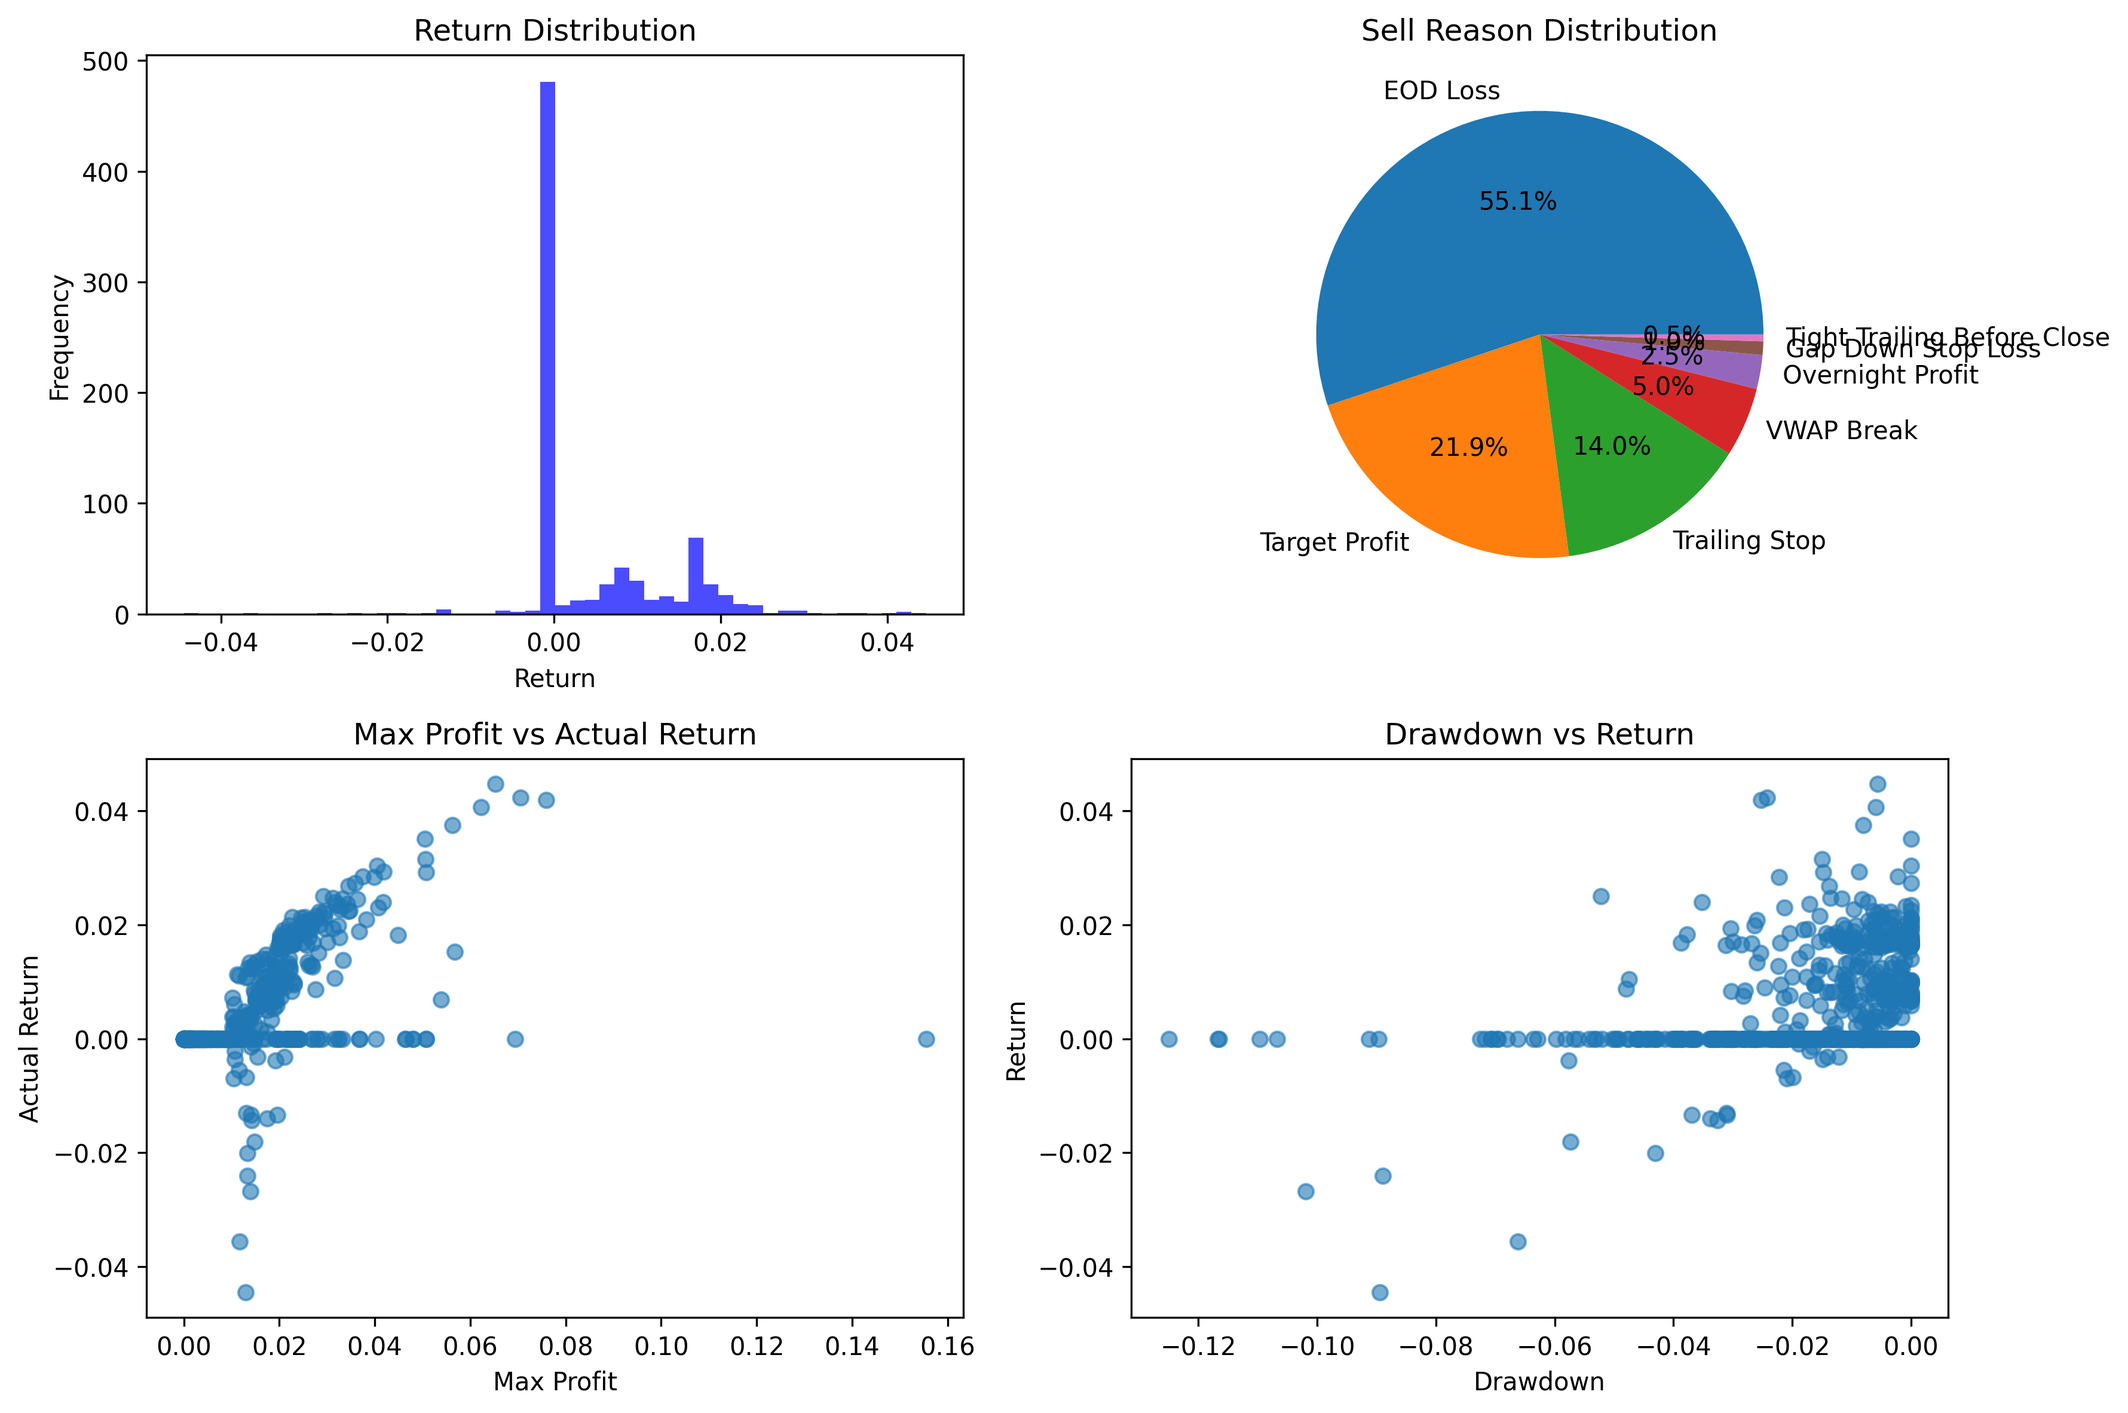
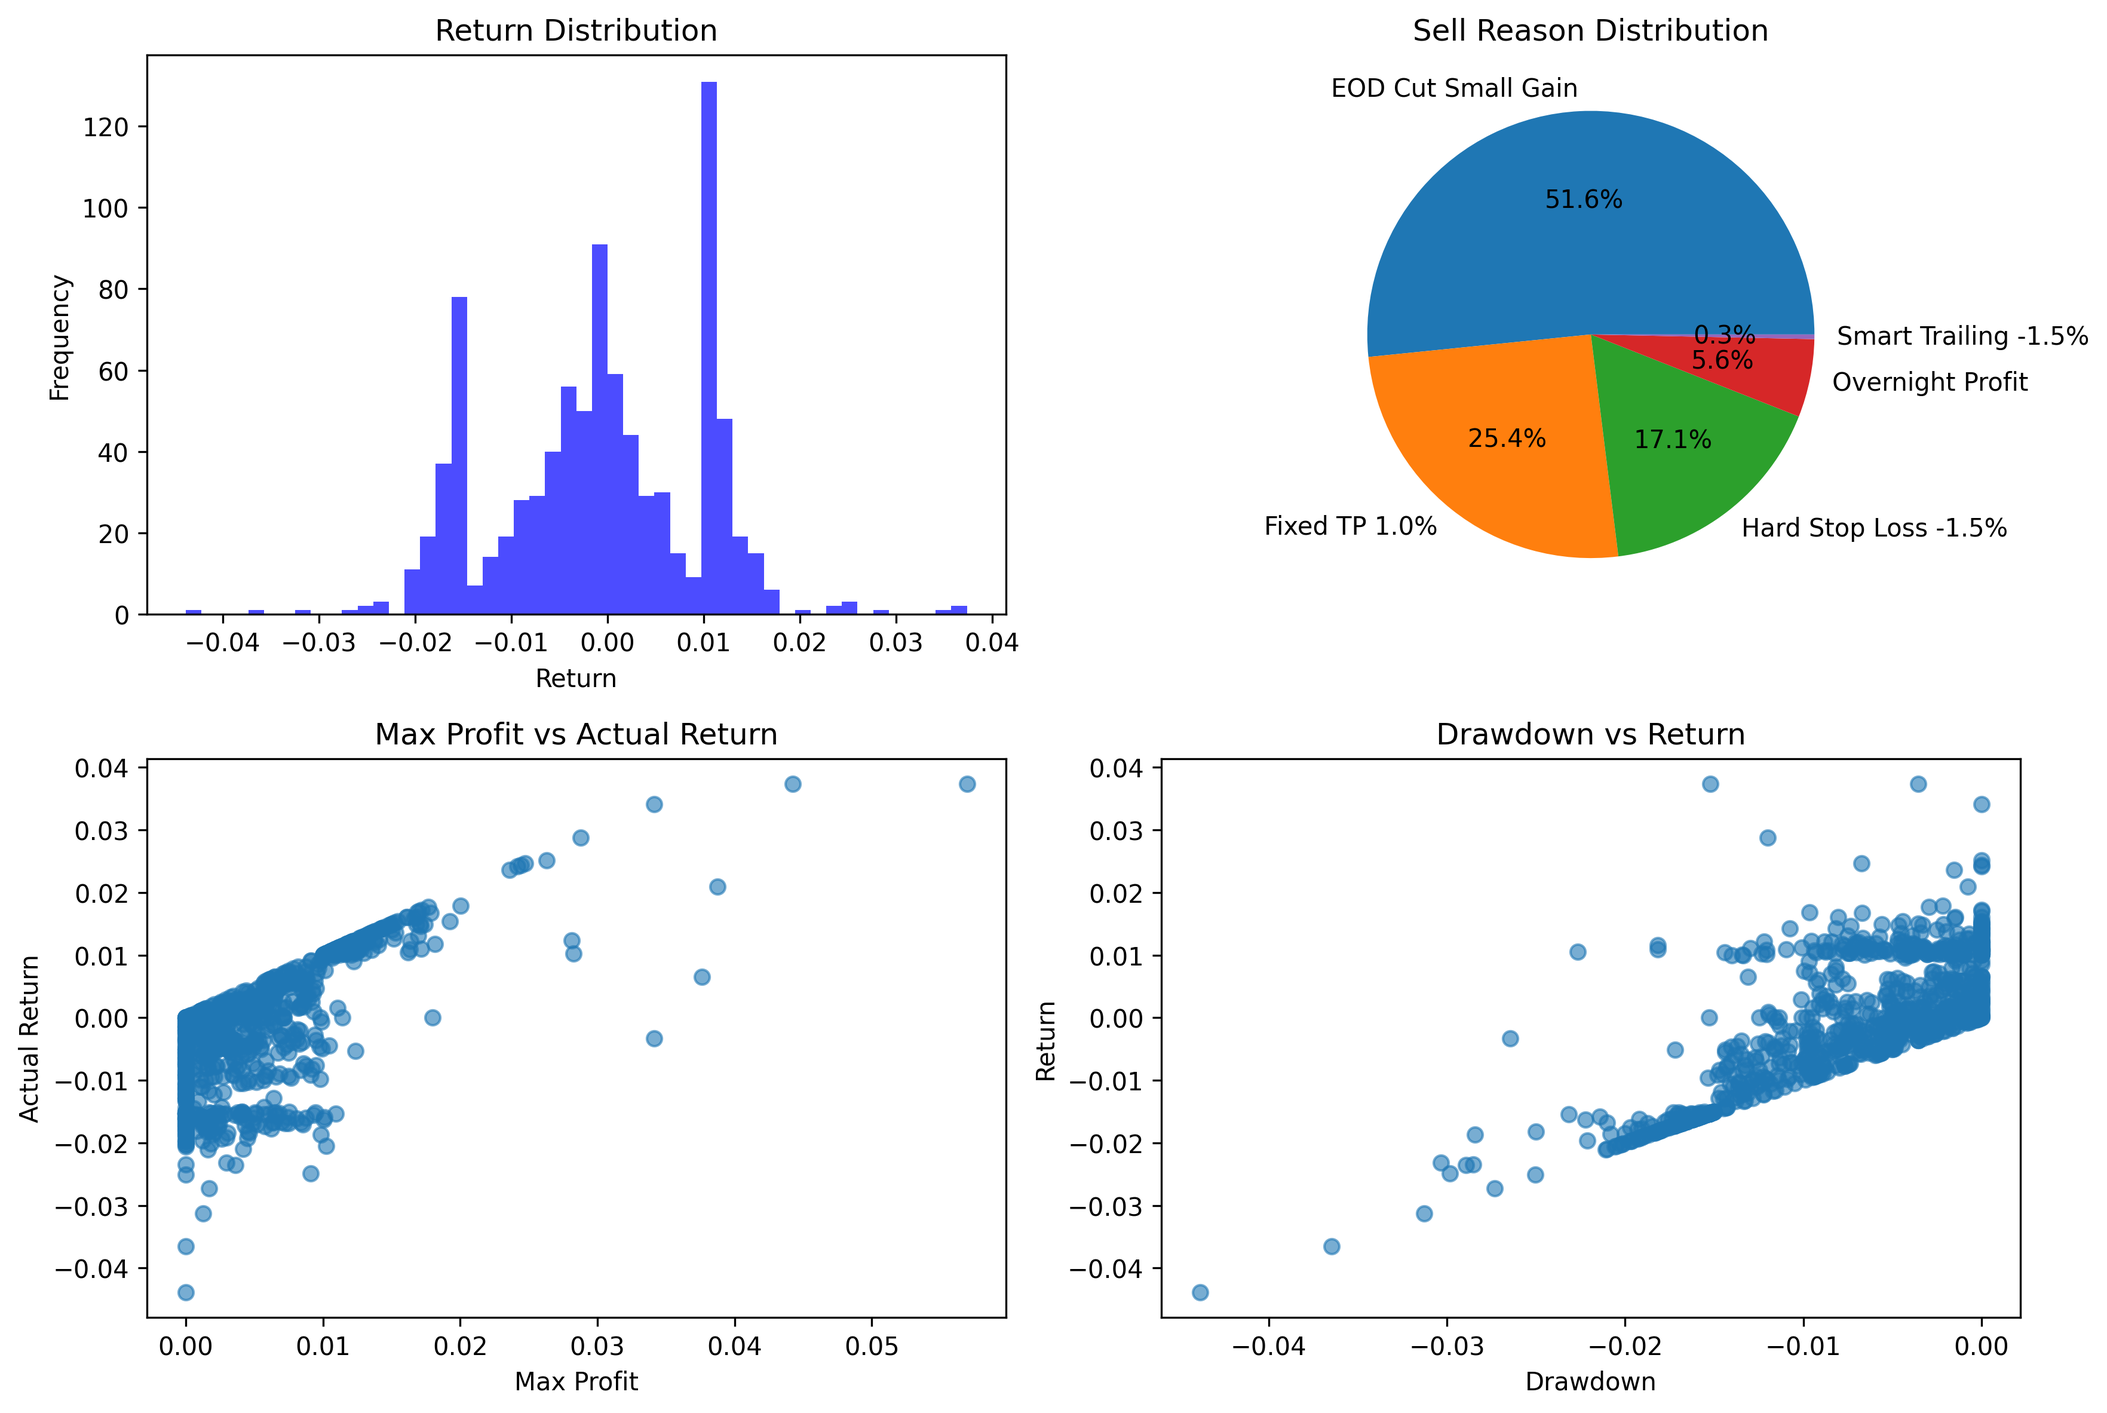
Backtest update

diff --git a/backtest_gradual_riser_trailing.py b/backtest_gradual_riser_trailing.py
@@ -10,6 +10,15 @@ results = []
 total_files = len(minute_files)
 processed_files = 0
 condition_counts = {'new_high': 0, 'vol_spike': 0, 'vwap_ok': 0, 'rsi_ok': 0, 'all_conditions': 0}
+tp_analysis = {
+    'total_trades': 0,
+    'tp_0.5_reached': 0,
+    'tp_1.0_reached': 0,
+    'tp_1.5_reached': 0,
+    'tp_2.0_reached': 0,
+    'tp_2.5_reached': 0,
+    'max_profit_distribution': []
+}
 
 print(f"Total files to process: {total_files}")
 
@@ -50,19 +59,17 @@ for file in tqdm(minute_files, desc="Processing files"):
         if entry_window.empty:
             continue
 
-        # 진입 조건별 카운트 (조건 강화)
+        # 진입 조건별 카운트 (조건 강화 → 점진 상승 패턴으로 수정)
         for idx, row in entry_window.iterrows():
-            # 30고가로 강화
             lookback = min(30, idx)
             high_30 = df.loc[idx-lookback:idx-1, 'high'].max() if idx > 0 else 0
+            # 점진 상승: 3분 이상 우상향
+            price_rise = df['close'].iloc[idx] > df['close'].iloc[idx - 3] if idx >= 3 else False
+            vwap_ok = row['close'] > row['vwap']
+            rsi_ok = row['rsi'] > 60
+            vol_spike = row['volume'] > 1.5 * row['vol_ma5']
             is_break_high = row['high'] > high_30 if high_30 > 0 else False
-            
-            vol_spike = row['volume'] > 2 * row['vol_ma5']
-            # VWAP 대비 0.3% 이상 상회로 변경
-            vwap_ok = row['close'] > row['vwap'] * 1.03
-            # RSI 범위 63-68 좁히기
-            rsi_ok = 63 <= row['rsi'] <= 68
-            
+            # 기존 카운트 유지 (원하면 수정 가능)
             if is_break_high:
                 condition_counts['new_high'] += 1
             if vol_spike:
@@ -71,35 +78,31 @@ for file in tqdm(minute_files, desc="Processing files"):
                 condition_counts['vwap_ok'] += 1
             if rsi_ok:
                 condition_counts['rsi_ok'] += 1
-            # 조건 조합: 핵심2개(고점돌파 또는 거래량급증) + 보조 2개(RSI적정)
-            if (is_break_high or vol_spike) and vwap_ok and rsi_ok:
+            # 조건 조합: 급등 배제, 점진 상승 강화
+            if price_rise and (is_break_high or vol_spike) and vwap_ok and rsi_ok:
                 condition_counts['all_conditions'] += 1
                 buy_time = row['datetime']
                 buy_price = row['close']
                 buy_idx = idx
-                # 10~11 등
                 ten = df[(df['datetime'].dt.time >= pd.to_datetime('10:00').time()) &
                          (df['datetime'].dt.time < pd.to_datetime('11:00').time())]
                 high_10_11 = ten['high'].max()
                 close_10_11 = ten['close'].iloc[-1]
                 close_pos_10_11 = close_10_11 / high_10_11 if high_10_11 > 0 else np.nan
-                # 10:10~10:30 매수강도 proxy
                 buy_strength = df[(df['datetime'].dt.time >= pd.to_datetime('10:10').time()) &
                                   (df['datetime'].dt.time <= pd.to_datetime('10:30').time())]['volume'].sum()
-                # ▼▼▼ 기본 청산 로직 (안정적 버전) ▼▼▼
+
+                # ▼▼▼ 기본 청산 로직 (TP/Trailing 완화) ▼▼▼
                 sell_price = np.nan
                 sell_time = None
-                sell_reason = ''
+                sell_reason = None
                 max_price = buy_price
                 min_price = buy_price
                 trailing_active = False
                 peak_price = buy_price
-                position = 1.0  # 1=전량, 0.5=부분청산 후
-                partial_sell = False
-                partial_sell_price = np.nan
-                partial_sell_time = None
-                partial_sell_reason = ''
-                
+                position = 1.0
+                max_profit_reached = 0.0
+
                 sell_window = df[df.index > buy_idx]
                 for _, srow in sell_window.iterrows():
                     price = srow['close']
@@ -107,96 +110,69 @@ for file in tqdm(minute_files, desc="Processing files"):
                     low = srow['low']
                     max_price = max(max_price, high)
                     min_price = min(min_price, low)
-                    ret_now = (price - buy_price) / buy_price
-                    
-                    # VWAP 이탈 손절: 봉 종가 기준으로 변경 (false break 대응)
-                    if price < srow['vwap'] * 0.997:
+                    current_return = (price - buy_price) / buy_price
+                    max_profit = (max_price - buy_price) / buy_price
+                    # max_profit_reached를 루프 내에서 지속 갱신
+                    max_profit_reached = max(max_profit_reached, max_profit)
+
+                    # Smart Trailing Stop 활성화 조건 (완화)
+                    smart_trailing_active = max_profit > 0.015
+                    trailing_threshold = max_price * 0.985  # 고점 대비 -1.5%
+
+                    # 1. 고정 목표 수익 (1.0%로 하향)
+                    if current_return >= 0.01:
+                        sell_reason = "Fixed TP 1.0%"
                         sell_price = price
                         sell_time = srow['datetime']
-                        sell_reason = 'VWAP Break'
-                        position = 0.0
                         break
-                    
-                    # Target Profit(2%) 익절로 조정 (close 기준)
-                    elif (price - buy_price) / buy_price >= 0.02:
+
+                    # 2. Smart Trailing Stop (조건부)
+                    elif smart_trailing_active and price < trailing_threshold:
+                        sell_reason = "Smart Trailing -1.5%"
                         sell_price = price
                         sell_time = srow['datetime']
-                        sell_reason = 'Target Profit'
-                        position = 0.0
                         break
-                    
-                    # 부분청산: 1 도달 시 40% 청산 (비중 확대)
-                    elif not partial_sell and (price - buy_price) / buy_price >= 0.01:
-                        partial_sell = True
-                        partial_sell_price = price
-                        partial_sell_time = srow['datetime']
-                        partial_sell_reason = 'Partial Profit 1%'
-                        position = 0.6  # 40% 청산 후 60% 보유
-                        # 나머지 60%는 계속 보유
-                    
-                    # 복합 익절: RSI > 70 and return > 0.8% (조건 완화)
-                    if not trailing_active and srow['rsi'] > 70 and ret_now > 0.008:
-                        trailing_active = True
-                        peak_price = high
-                        continue
-                    
-                    # 트레일링 스탑: 최고가 대비 -1% 하락, 단 최소 수익률 1.5% 이상 (조건 완화)
-                    if trailing_active:
-                        if high > peak_price:
-                            peak_price = high
-                        if (peak_price - buy_price) / buy_price >= 0.015:
-                            if price <= peak_price * 0.99:
-                                sell_price = price
-                                sell_time = srow['datetime']
-                                sell_reason = 'Trailing Stop'
-                                position = 0.0
-                                break
-                    
-                    # 🔹 1단계: 조건부 EOD 청산 (손실 중인 포지션만 마감)
-                    if srow['datetime'].time() >= pd.to_datetime('15:00').time():
-                        if ret_now < 0:
+
+                    # 3. Hard Stop Loss
+                    elif current_return <= -0.015:
+                        sell_reason = "Hard Stop Loss -1.5%"
+                        sell_price = price
+                        sell_time = srow['datetime']
+                        break
+
+                    # 4. EOD (익일 청산 조건 보완)
+                    elif srow['datetime'].time() > pd.to_datetime('15:00').time():
+                        if current_return < 0.005:
+                            sell_reason = "EOD Cut Small Gain"
                             sell_price = price
                             sell_time = srow['datetime']
-                            sell_reason = 'EOD Loss'
-                            position = 0.0
                             break
                         else:
-                            # 수익 중이면 오버나잇 보유
-                            continue
-                    
-                    # 🔹 2단계: 마감 30분 전 타이트 트레일링 스탑 (14:30~15:00)
-                    if srow['datetime'].time() >= pd.to_datetime('14:30').time():
-                        if ret_now > 0.005:  # 0.5% 이상 수익 중일 때만
-                            if price < peak_price * 0.992:  # 고점 대비 0.8% 이탈
-                                sell_price = price
-                                sell_time = srow['datetime']
-                                sell_reason = 'Tight Trailing Before Close'
-                                position = 0.0
-                                break
-                    
-                    # 🔹 3단계: 익일 자동 청산 로직 (09:10 체크)
-                    if srow['datetime'].time() == pd.to_datetime('09:10').time():
-                        if ret_now > 0.01:  # 1% 이상 수익 중이면 익일 청산
-                            sell_price = price
+                            sell_reason = "Overnight Profit"
+                            sell_price = price  # 임시로 현재가 사용
                             sell_time = srow['datetime']
-                            sell_reason = 'Overnight Profit'
-                            position = 0.0
                             break
-                        elif drawdown < -0.03:  # 3% 이상 손실 시 갭다운 손절
-                            sell_price = price
-                            sell_time = srow['datetime']
-                            sell_reason = 'Gap Down Stop Loss'
-                            position = 0.0
-                            break
-                
+
+                # TP 도달률 분석 기록 (실제 청산된 거래만, 1.0% 기준으로 수정)
+                if not np.isnan(sell_price):
+                    tp_analysis['total_trades'] += 1
+                    tp_analysis['max_profit_distribution'].append(max_profit_reached)
+                    if max_profit_reached >= 0.005:
+                        tp_analysis['tp_0.5_reached'] += 1
+                    if max_profit_reached >= 0.01:
+                        tp_analysis['tp_1.0_reached'] += 1
+                    if max_profit_reached >= 0.015:
+                        tp_analysis['tp_1.5_reached'] += 1
+                    if max_profit_reached >= 0.02:
+                        tp_analysis['tp_2.0_reached'] += 1
+                    if max_profit_reached >= 0.025:
+                        tp_analysis['tp_2.5_reached'] += 1
+
                 # 결과 기록
                 if not np.isnan(sell_price):
-                    ret = (sell_price - buy_price) / buy_price * position
                     max_profit = (max_price - buy_price) / buy_price
                     drawdown = (min_price - buy_price) / buy_price
-                    # 부분청산 수익 포함
-                    if partial_sell:
-                        ret = 0.4 * ((partial_sell_price - buy_price) / buy_price) + 0.6 * ((sell_price - buy_price) / buy_price)
+                    ret = (sell_price - buy_price) / buy_price
                     results.append({
                         'stock': stock_code,
                         'buy_time': buy_time,
@@ -205,10 +181,6 @@ for file in tqdm(minute_files, desc="Processing files"):
                         'sell_price': sell_price,
                         'return': ret,
                         'sell_reason': sell_reason,
-                        'partial_sell': partial_sell,
-                        'partial_sell_price': partial_sell_price,
-                        'partial_sell_time': partial_sell_time,
-                        'partial_sell_reason': partial_sell_reason,
                         'close_pos_10_11': close_pos_10_11,
                         'buy_strength': buy_strength,
                         'rsi_at_buy': row['rsi'],
@@ -227,6 +199,27 @@ print(f"Processed files: {processed_files}")
 print(f"Condition counts:")
 for condition, count in condition_counts.items():
     print(f"  {condition}: {count}")
+
+# TP 도달률 분석 출력
+print(f"\n=== Target Profit 도달률 분석 ===")
+total_trades = tp_analysis['total_trades']
+if total_trades > 0:
+    print(f"총 거래 수: {total_trades}")
+    print(f"0.5% 도달률: {tp_analysis['tp_0.5_reached']} ({tp_analysis['tp_0.5_reached']/total_trades*100:.1f}%)")
+    print(f"1.0% 도달률: {tp_analysis['tp_1.0_reached']} ({tp_analysis['tp_1.0_reached']/total_trades*100:.1f}%)")
+    print(f"1.5% 도달률: {tp_analysis['tp_1.5_reached']} ({tp_analysis['tp_1.5_reached']/total_trades*100:.1f}%)")
+    print(f"2.0% 도달률: {tp_analysis['tp_2.0_reached']} ({tp_analysis['tp_2.0_reached']/total_trades*100:.1f}%)")
+    print(f"2.5% 도달률: {tp_analysis['tp_2.5_reached']} ({tp_analysis['tp_2.5_reached']/total_trades*100:.1f}%)")
+    
+    # 최대 수익률 분포 분석
+    max_profits = np.array(tp_analysis['max_profit_distribution'])
+    print(f"\n최대 수익률 통계:")
+    print(f"평균 최대 수익률: {max_profits.mean():.3f}")
+    print(f"중간값 최대 수익률: {np.median(max_profits):.3f}")
+    print(f"0.1% 이하: {(max_profits <= 0.001).sum()} ({np.mean(max_profits <= 0.001)*100:.1f}%)")
+    print(f"0.3% 이하: {(max_profits <= 0.003).sum()} ({np.mean(max_profits <= 0.003)*100:.1f}%)")
+    print(f"0.5% 이하: {(max_profits <= 0.005).sum()} ({np.mean(max_profits <= 0.005)*100:.1f}%)")
+    print(f"1.0% 이하: {(max_profits <= 0.01).sum()} ({np.mean(max_profits <= 0.01)*100:.1f}%)")
 
 if results:
     results_df = pd.DataFrame(results)
@@ -287,3 +280,48 @@ if results:
 else:
     print("\nNo trades were executed under the current strategy conditions.")
     print("Consider relaxing the entry conditions or checking data quality.") 
+
+# ▼▼▼ 진입 후 20~60분 가격 분포 분석 및 시각화 ▼▼▼
+from datetime import timedelta
+
+drift_records = []
+
+for trade in results:
+    entry_time = trade['buy_time']
+    stock = trade['stock']
+    try:
+        df = pd.read_csv(f'minute_data/{stock}.csv', parse_dates=['datetime'])
+        df['datetime'] = pd.to_datetime(df['datetime'], errors='coerce')
+        df = df.dropna(subset=['datetime', 'close'])
+        df = df.sort_values('datetime')
+
+        sub = df[(df['datetime'] > entry_time) & 
+                 (df['datetime'] <= entry_time + timedelta(minutes=60))].copy()
+        sub['delta_minutes'] = (sub['datetime'] - entry_time).dt.total_seconds() / 60
+        sub['pct_change'] = (sub['close'] - trade['buy_price']) / trade['buy_price']
+
+        drift_records.append(sub[['delta_minutes', 'pct_change']])
+    except Exception as e:
+        continue
+
+# 통합 분석
+if drift_records:
+    all_drift = pd.concat(drift_records, ignore_index=True)
+    drift_summary = all_drift.groupby('delta_minutes')['pct_change'].agg(['mean', 'median', 'std'])
+    
+    plt.figure(figsize=(10, 6))
+    plt.plot(drift_summary.index, drift_summary['mean'], label='Mean')
+    plt.plot(drift_summary.index, drift_summary['median'], label='Median')
+    plt.fill_between(drift_summary.index,
+                     drift_summary['mean'] - drift_summary['std'],
+                     drift_summary['mean'] + drift_summary['std'],
+                     color='gray', alpha=0.3, label='±1 STD')
+    plt.axhline(0, color='black', linestyle='--')
+    plt.title('Drift Pattern After Entry (0–60min)')
+    plt.xlabel('Minutes After Entry')
+    plt.ylabel('Cumulative Return')
+    plt.legend()
+    plt.grid(True)
+    plt.tight_layout()
+    plt.savefig('drift_pattern.png')
+    plt.show() 
